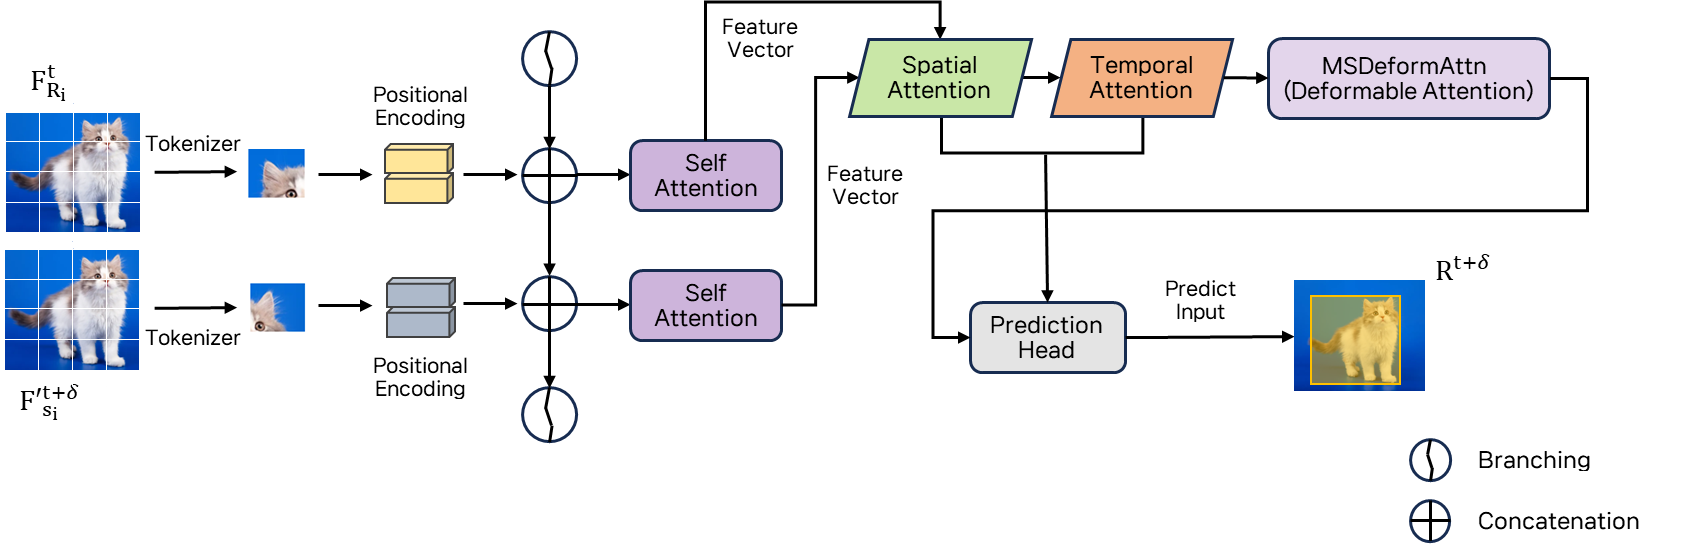
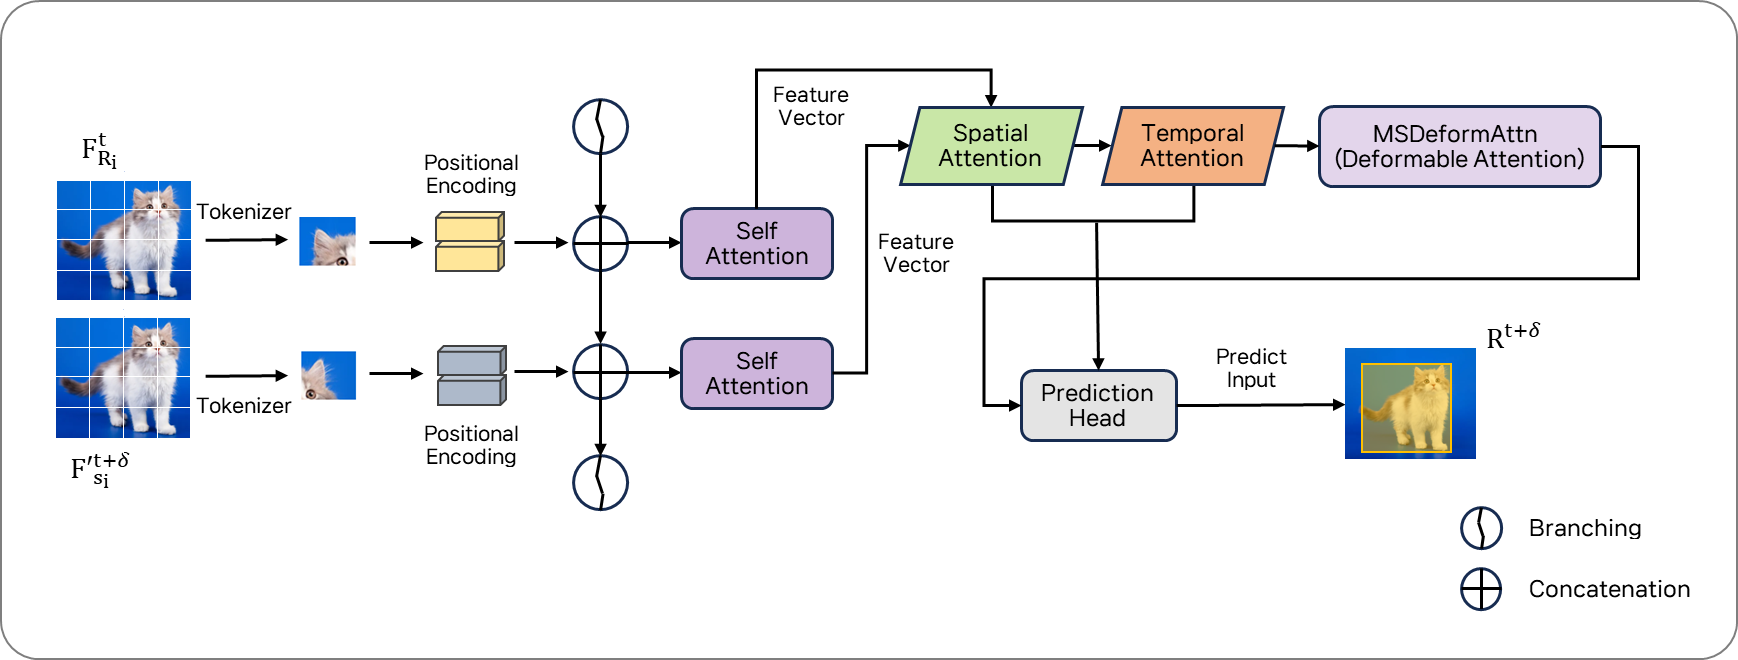
Update figures with white background and fix qualitative results description

Changed region(s): [[0.0, 0.0, 1.0, 0.811], [0.0, 0.7486, 1.0, 1.0]]

diff --git a/README.md b/README.md
@@ -227,7 +227,7 @@ Comparison of different Spatial-Temporal Attention combinations:
 
 ### Qualitative Results
 
-Comparison of tracking results on MOT16 between TrackFormer (a) and ST-TrackFormer (b):
+The left image shows tracking results from TrackFormer, and the right image shows results from ST-TrackFormer on the MOT16 benchmark. ST-TrackFormer produces more accurate and consistent bounding boxes.
 
 <div align="center">
     <img src="docs/tracking_comparison.png" alt="Tracking comparison on MOT16" width="700"/>
